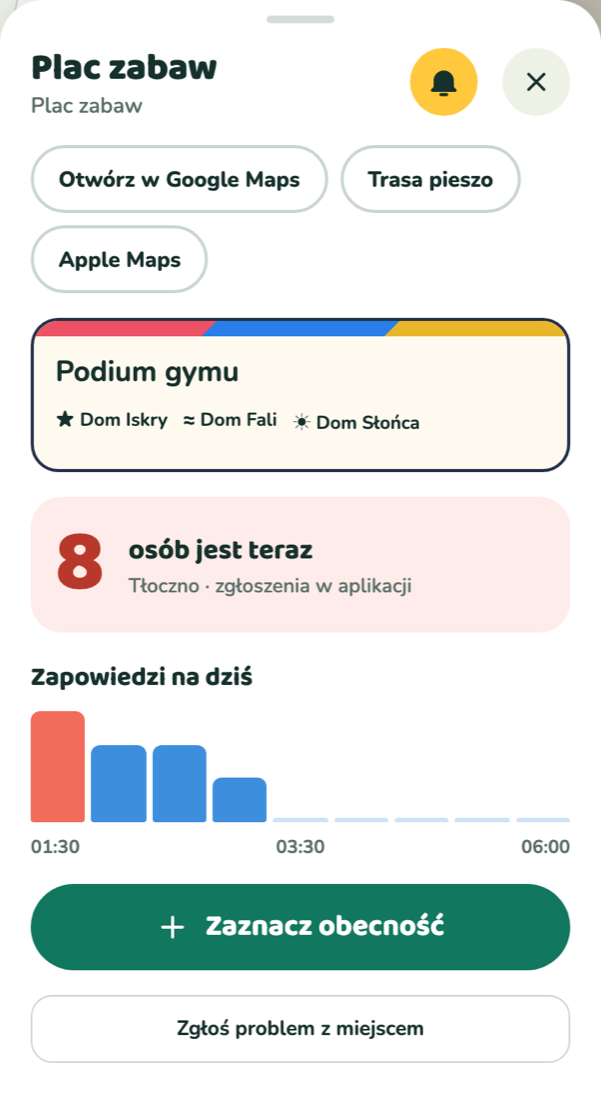
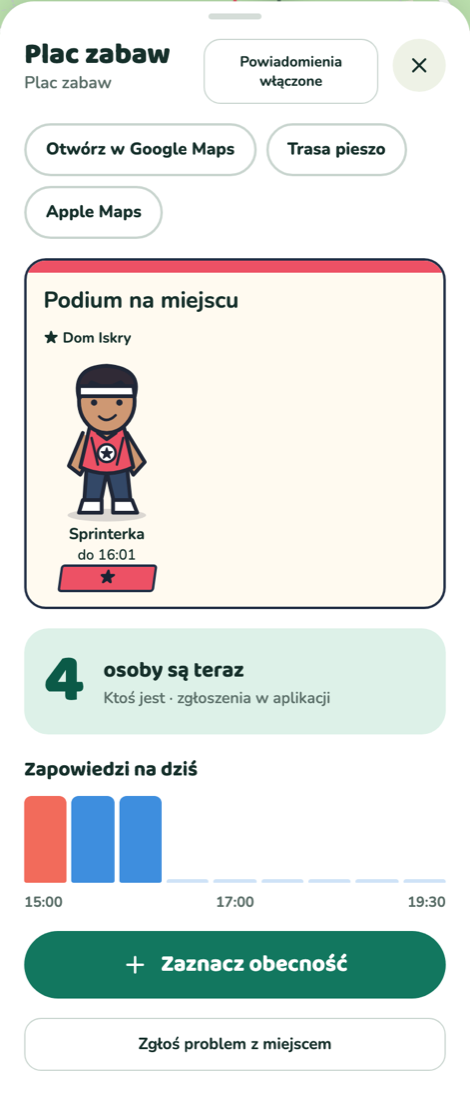
content: align the organization profile with the notification wording

diff --git a/profile/README.md b/profile/README.md
@@ -11,38 +11,39 @@
 <p align="center">
   <img src="https://raw.githubusercontent.com/na-placu/.github/main/profile/img/mapa-3d.png" alt="Mapa Na Placu w widoku 3D: plac zabaw jako wieża z licznikiem osób" width="240">
   <img src="https://raw.githubusercontent.com/na-placu/.github/main/profile/img/karta-miejsca.png" alt="Karta miejsca z podium, liczbą osób i prognozą zapowiedzi" width="240">
-  <img src="https://raw.githubusercontent.com/na-placu/.github/main/profile/img/dzwoneczek.png" alt="Panel dzwoneczka miejsca z progami osób i znajomych" width="240">
+  <img src="https://raw.githubusercontent.com/na-placu/.github/main/profile/img/powiadomienia-miejsca.png" alt="Ustawienia powiadomień o miejscu z progami osób i znajomych" width="240">
 </p>
 <p align="center"><sub>Zrzuty z wersji testowej, dane demonstracyjne.</sub></p>
 
 ## Czym jest
 
-**Na Placu** to mapa placów zabaw, parków i boisk, na której rodzice zaznaczają, że już są albo będą na miejscu. Aplikacja działa w przeglądarce telefonu (PWA) i da się ją dodać do ekranu głównego. Na start obejmuje Radzymin.
+**Na Placu** to mapa placów zabaw, parków i boisk, na której rodzice zaznaczają, że już są albo będą na miejscu. Działa w przeglądarce telefonu i da się ją dodać do ekranu głównego. Na start obejmuje Radzymin.
 
-- **Mapa prawdziwych miejsc** z OpenStreetMap, w widoku 2D, 3D i POV.
+- **Place, parki i boiska w okolicy** na mapie 2D, 3D i POV, z trasą dojścia.
 - **Liczby zamiast ludzi:** nieznajomi widzą tylko, ilu osób można się spodziewać teraz i w najbliższych godzinach.
-- **Znajomi z zaproszenia:** jednorazowy link, bez wyszukiwarki ludzi.
-- **Dzwoneczki:** powiadomienie, gdy znajomy wychodzi na plac albo gdy w wybranym miejscu zbierze się określona liczba osób lub znajomych, teraz albo w zapowiedziach.
+- **Znajomi tylko za zgodą:** zapraszasz jednorazowym linkiem (ważny 7 dni), znajomy loguje się i go przyjmuje. Każdego możesz usunąć lub zablokować.
+- **Powiadomienia:** dowiesz się, gdy znajomy wychodzi na plac (🔔 przy jego imieniu) albo gdy w wybranym miejscu zbierze się tyle osób lub znajomych, ile ustawisz, teraz albo w zapowiedziach.
 - **Gymy w 3D:** wieże z podium, komiksowe postacie i trzy domy (Iskry, Fali, Słońca). Postać jest widoczna dla innych tylko za zgodą.
-- **Własne zgłoszenia miejsc** sprawdzane przez moderatora ze wsparciem automatu.
+- **Własne zgłoszenia miejsc**, sprawdzane przez moderatora.
 
 ## Dla kogo
 
 Dla dorosłych (16+), którzy chodzą z dziećmi na place i chcą uniknąć pustych lub przepełnionych wypraw, a przy tym nie chcą, żeby ktokolwiek poznał rozkład dnia ich rodziny.
 
-## Prywatność jako wymaganie
+## Prywatność i bezpieczeństwo
 
 - Obcy widzą wyłącznie liczby: nigdy imion ani liczby kont.
 - Widoczność wybierasz przy każdej wizycie (dla znajomych albo tylko w liczniku).
 - Pozycja nie jest zapisywana: służy do jednorazowej kontroli „czy jestem na miejscu”.
+- Bez czatu, komentarzy i wiadomości: nie ma jak napisać do obcej osoby. Obraźliwe pseudonimy są odrzucane.
 - Brak kont dzieci, zdjęć, nazwisk, reklam i analityki z identyfikatorami.
 - Eksport danych i usunięcie konta w profilu; wizyty znikają po 30 dniach.
 
-Szczegóły: [Prywatność w Na Placu](https://na-placu.tojest.dev/o-projekcie/prywatnosc.html).
+Żadna aplikacja nie daje gwarancji bezpieczeństwa, dlatego prosimy o dodawanie do znajomych tylko osób, które się zna. Szczegóły: [Prywatność w Na Placu](https://na-placu.tojest.dev/o-projekcie/prywatnosc.html).
 
 ## Technologia
 
-Serwer w Go z bazą SQLite, aplikacja PWA w React i TypeScript (MapLibre, three.js), wspólny kontrakt API w OpenAPI 3.1. Kod aplikacji jest na razie w repozytoriach prywatnych.
+Serwer w Go, aplikacja internetowa w React i TypeScript, mapa MapLibre z modelami 3D. Kod aplikacji jest na razie w repozytoriach prywatnych.
 
 ## Status
 
